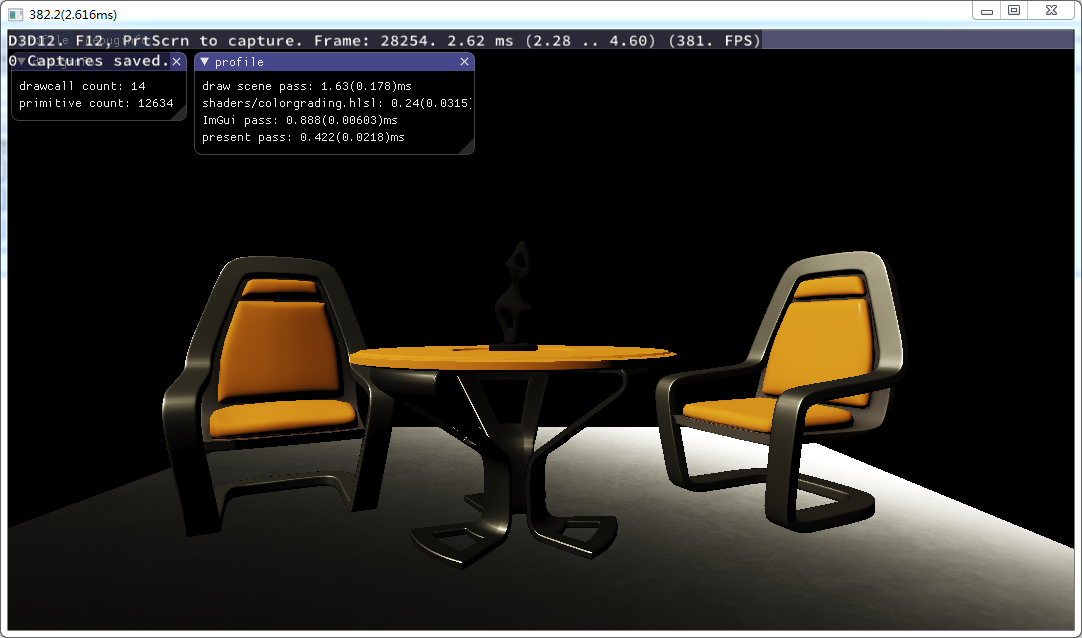
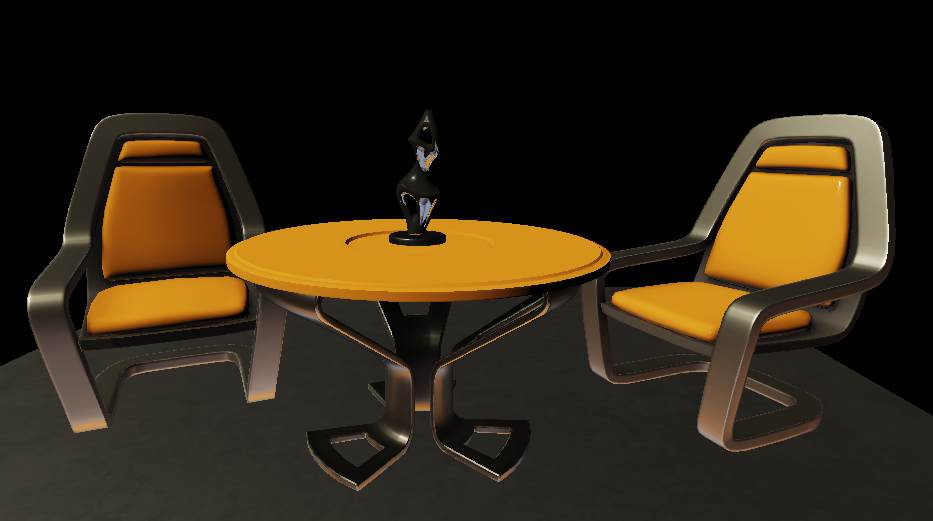
add reflection capture

diff --git a/Source/actiniaria/Private/IPCFrame.cpp b/Source/actiniaria/Private/IPCFrame.cpp
@@ -14,8 +14,13 @@
 
 #include"Engine/Light.h"
 #include"Engine/DirectionalLight.h"
+#include "Engine/ReflectionCapture.h"
+#include "Components/ReflectionCaptureComponent.h"
+#include "Engine/MapBuildDataRegistry.h"
 
 #include "MaterialParser.h"
+
+
 
 void IPCFrame::createMesh(const std::string& name, FStaticMeshRenderData & renderdata)
 {
@@ -137,11 +142,15 @@ std::string mapTextureType(TEnumAsByte<enum EMaterialSamplerType> type)
 	return "unknown";
 }
 
-void IPCFrame::createMaterial( UMaterialInterface* material)
+void IPCFrame::createMaterial( UMaterialInterface* material, std::set<std::string>& textureMap)
 {
 	std::string name = U2M(*material->GetName());
 	auto base = material->GetBaseMaterial();
-
+	auto toVariable = [](const std::string & str)
+	{
+		std::regex r("[^0-9a-zA-Z_]");
+		return "_" + std::regex_replace(str, r, "_");
+	};
 	//std::map<std::string, Vector4> parameters;
 
 	std::set< std::string> textures;
@@ -171,12 +180,16 @@ void IPCFrame::createMaterial( UMaterialInterface* material)
 				auto format = source.GetFormat();
 
 				uint32 BytesPerPixel = source.GetBytesPerPixel();
-				auto src = source.LockMip(0);
-				rendercmd.createTexture(U2M(*t->GetName()),width, height, convertFormat(format), src);
-				//auto tex = Renderer::getSingleton()->createTexture(width, height, convertFormat(format), src);
-				textures.insert(U2M(*t->GetName()));
-				//tex->setName(*t->GetName());
-				source.UnlockMip(0);
+
+				std::string texturename = toVariable(U2M(*t->GetName()));
+				if (textureMap.find(texturename) == textureMap.end())
+				{
+					auto src = source.LockMip(0);
+					rendercmd.createTexture(texturename, width, height, convertFormat(format), (bool)t->SRGB,src);
+					source.UnlockMip(0);
+				}
+				textureMap.insert(texturename);
+				textures.insert(texturename);
 			}
 		}
 	}
@@ -215,6 +228,38 @@ void IPCFrame::iterateLights()
 		rendercmd.createLight(U2M(*light->GetName()),0,*(Color*)&color, *(Vector3*)&dir);
 	}
 
+}
+
+void IPCFrame::iterateCapture()
+{
+	for (TObjectIterator< AReflectionCapture> iter; iter; ++iter)
+	{
+		auto actor = *iter;
+		auto comp = actor->GetCaptureComponent();
+		if (comp == nullptr)
+			continue;
+		auto data = comp->GetMapBuildData();
+		if (data == nullptr)
+			continue;
+		auto transfrom = comp->GetComponentTransform();
+		auto mat = transfrom.ToMatrixWithScale().GetTransposed();
+		rendercmd.createReflectionProbe(
+			U2M(*actor->GetName()),
+			*(Matrix*)&mat,
+			comp->GetInfluenceBoundingRadius(),
+			data->Brightness,data->CubemapSize, 
+			data->FullHDRCapturedData.GetData(), 
+			data->FullHDRCapturedData.Num()
+		);
+	}
+}
+
+void IPCFrame::init()
+{
+	iterateObjects();
+	iterateLights();
+	iterateCapture();
+	rendercmd.done();
 }
 
 void IPCFrame::iterateObjects()
@@ -256,6 +301,7 @@ void IPCFrame::iterateObjects()
 
 	std::set<FString> meshs;
 	std::set<FString> materials;
+	std::set<std::string> textures;
 	for (TObjectIterator<AStaticMeshActor> iter; iter; ++iter)
 	{
 		auto actor = *iter;
@@ -268,27 +314,30 @@ void IPCFrame::iterateObjects()
 
 		//auto material = mesh->GetMaterial(0);
 		auto numMaterials = component->GetNumMaterials();
-		if (numMaterials == 0)
-			continue;
 
 		std::vector<std::string> mats;
 		for (int i = 0; i < numMaterials; ++i)
 		{
 			auto material = component->GetMaterial(i);
-			
+			if (material == nullptr)
+				continue;
+		
 			auto ret = materials.find(material->GetName());
 			if (ret != materials.end())
 			{
 			}
 			else
 			{
-				createMaterial(material);
+				createMaterial(material, textures);
 				materials.insert(material->GetName());
 			}
 
 			mats.push_back(U2M(*material->GetName()));
 			
 		}
+
+		if (mats.size() != numMaterials)
+			continue;
 
 
 

diff --git a/Source/actiniaria/Private/StaticMesh.cpp b/Source/actiniaria/Private/StaticMesh.cpp
@@ -2,40 +2,40 @@
 
 StaticMesh::StaticMesh(FStaticMeshRenderData & renderdata)
 {
-	auto renderer = Renderer::getSingleton();
+	//auto renderer = Renderer::getSingleton();
 
-	auto& mesh = renderdata.LODResources[0];
-	auto numVertices = mesh.GetNumVertices();
-	auto& positions = mesh.VertexBuffers.PositionVertexBuffer;
-	auto& vertices = mesh.VertexBuffers.StaticMeshVertexBuffer;
+	//auto& mesh = renderdata.LODResources[0];
+	//auto numVertices = mesh.GetNumVertices();
+	//auto& positions = mesh.VertexBuffers.PositionVertexBuffer;
+	//auto& vertices = mesh.VertexBuffers.StaticMeshVertexBuffer;
 
-	auto stride = (sizeof(FVector) + sizeof(FVector2D));
-	std::vector<char> cacheData(stride * numVertices );
-	char* data = cacheData.data();
-	for (auto i = 0; i < numVertices; ++i)
-	{
-		const auto& pos = positions.VertexPosition(i);
-		const auto& uv = vertices.GetVertexUV(i,0);
-		
-		memcpy(data, &pos, sizeof(FVector));
-		memcpy(data + sizeof(FVector), &uv, sizeof(FVector2D));
-		data += stride;
-	}
+	//auto stride = (sizeof(FVector) + sizeof(FVector2D));
+	//std::vector<char> cacheData(stride * numVertices );
+	//char* data = cacheData.data();
+	//for (auto i = 0; i < numVertices; ++i)
+	//{
+	//	const auto& pos = positions.VertexPosition(i);
+	//	const auto& uv = vertices.GetVertexUV(i,0);
+	//	
+	//	memcpy(data, &pos, sizeof(FVector));
+	//	memcpy(data + sizeof(FVector), &uv, sizeof(FVector2D));
+	//	data += stride;
+	//}
 
-	mVertices = renderer->createBuffer(cacheData.size(), stride, D3D12_HEAP_TYPE_DEFAULT, cacheData.data(), cacheData.size());
-	
-	auto& indices = mesh.IndexBuffer;
-	auto numIndices = indices.GetNumIndices();
-	cacheData.resize(indices.GetIndexDataSize());
-	stride = indices.Is32Bit()? 4: 2;
-	data = cacheData.data();
-	for (auto i = 0; i < numIndices; ++i)
-	{
-		auto index = indices.GetIndex(i);
-		memcpy(data, &index, stride);
-		data += stride;
-	}
-	
-	mIndices = renderer->createBuffer(cacheData.size(), stride,D3D12_HEAP_TYPE_DEFAULT,cacheData.data(), cacheData.size());
+	//mVertices = renderer->createBuffer(cacheData.size(), stride, D3D12_HEAP_TYPE_DEFAULT, cacheData.data(), cacheData.size());
+	//
+	//auto& indices = mesh.IndexBuffer;
+	//auto numIndices = indices.GetNumIndices();
+	//cacheData.resize(indices.GetIndexDataSize());
+	//stride = indices.Is32Bit()? 4: 2;
+	//data = cacheData.data();
+	//for (auto i = 0; i < numIndices; ++i)
+	//{
+	//	auto index = indices.GetIndex(i);
+	//	memcpy(data, &index, stride);
+	//	data += stride;
+	//}
+	//
+	//mIndices = renderer->createBuffer(cacheData.size(), stride,D3D12_HEAP_TYPE_DEFAULT,cacheData.data(), cacheData.size());
 
 }

diff --git a/Source/actiniaria/Private/MaterialParser.cpp b/Source/actiniaria/Private/MaterialParser.cpp
@@ -33,6 +33,10 @@
 #include "Editor.h"
 #include "Kismet2/BlueprintEditorUtils.h"
 
+#include <regex>
+
+
+
 std::string tostring(const FVector4& v)
 {
 	std::stringstream ss;
@@ -159,10 +163,16 @@ MaterialParser::MaterialParser()
 		const auto& name = sampler->GetName();
 		const auto& texture = sampler->Texture->GetName();
 
+		auto toVariable = [](const std::string & str)
+		{
+			std::regex r("[^0-9a-zA-Z_]");
+			return "_" + std::regex_replace(str, r, "_");
+		};
+
 		// bind resource
 		if (res.find(texture) == res.end())
 		{
-			res[texture] = "Texture2D " + U2M(*texture) + ";";
+			res[texture] = "Texture2D " + toVariable(U2M(*texture));
 		}
 
 
@@ -177,7 +187,7 @@ MaterialParser::MaterialParser()
 				uv = uvparser.str();
 			}
 
-			def[name] = "half4 " + U2M(*name) + " = " + U2M(*texture) + ".Sample(linearSampler," + uv + ")";
+			def[name] = "half4 " + U2M(*name) + " = " + toVariable(U2M(*texture)) + ".Sample(anisotropicSampler," + uv + ")";
 		}
 
 		ss << U2M(*name);
@@ -452,7 +462,11 @@ std::string MaterialParser::operator()(UMaterialInterface* material)
 	for (auto& r: mBoundResources)
 		shader += r.second + ";\n";
 
-	shader += "sampler linearSampler:register(s0);\n";
+	shader += "__BOUND_RESOURCE__  \n";
+
+	shader += "sampler pointSampler:register(s0);\n";
+	shader += "sampler linearSampler:register(s1);\n";
+	shader += "sampler anisotropicSampler:register(s2);\n";
 
 	shader += "half4 ps(PSInput input):SV_TARGET \n{\n";
 

diff --git a/Source/actiniaria/Private/IPCFrame.h b/Source/actiniaria/Private/IPCFrame.h
@@ -11,19 +11,16 @@ class IPCFrame
 public:
 	IPCFrame();
 	~IPCFrame();
+
+	void init();
+private:
 	void iterateObjects();
 	void iterateLights();
-	void init()
-	{
-		iterateObjects();
-		iterateLights();
+	void iterateCapture();
 
-		rendercmd.done();
-	}
-private:
 	void createMesh(const std::string& name, FStaticMeshRenderData & renderdata);
 	void createModel(const std::string& name, const std::string& meshname, const Matrix& transform, const Matrix& normaltransform, const std::vector< std::string>& materials);
-	void createMaterial(UMaterialInterface* material);
+	void createMaterial(UMaterialInterface* material,  std::set<std::string>& textureMap);
 
 public:
 	RenderCommand rendercmd;
